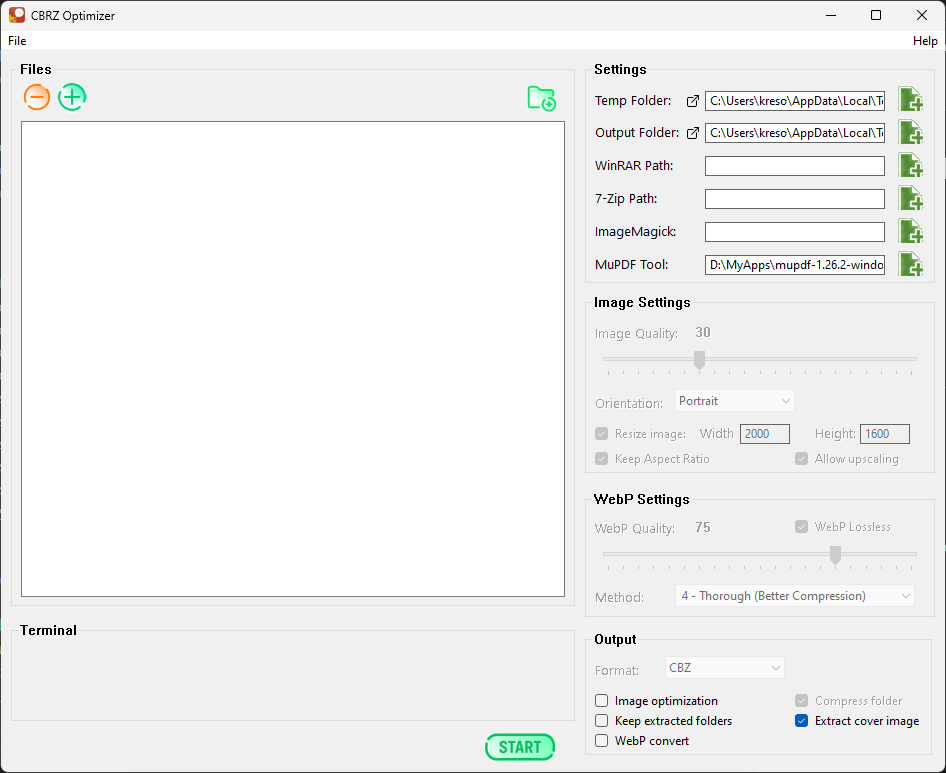
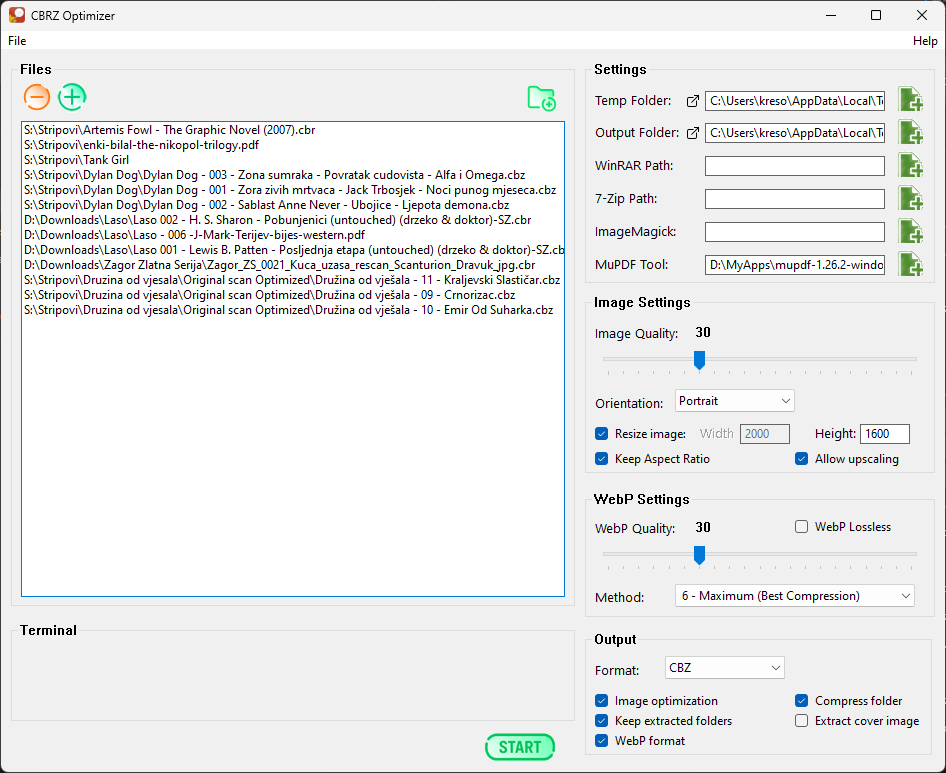
see changelog v1.2.0

diff --git a/src/aboutDialog.c b/src/aboutDialog.c
@@ -71,8 +71,7 @@ LRESULT CALLBACK AboutWndProc(HWND hWnd, UINT msg, WPARAM wParam, LPARAM lParam)
    {
    case WM_CREATE:
    {
-      hIcon = (HICON)LoadImageW( GetModuleHandleW(NULL), MAKEINTRESOURCEW(IDI_ICON1), IMAGE_ICON,
-         64, 64, LR_DEFAULTCOLOR | LR_SHARED);
+      hIcon = (HICON)LoadImageW( GetModuleHandleW(NULL), MAKEINTRESOURCEW(IDI_ICON1), IMAGE_ICON, 64, 64, LR_DEFAULTCOLOR | LR_SHARED);
 
       if (hIcon)
       {
@@ -103,8 +102,7 @@ LRESULT CALLBACK AboutWndProc(HWND hWnd, UINT msg, WPARAM wParam, LPARAM lParam)
       SendMessageW(hwndAppVersionStatic, WM_SETFONT, (WPARAM)hAboutFont, TRUE);
       SendMessageW(hwndIconsLink, WM_SETFONT, (WPARAM)hAboutFont, TRUE);
 
-      CreateWindowW(L"BUTTON", L"OK", WS_CHILD | WS_VISIBLE | BS_DEFPUSHBUTTON,
-                    110, 125, 80, 25, hWnd, (HMENU)IDC_ABOUT_OK,
+      CreateWindowW(L"BUTTON", L"OK", WS_CHILD | WS_VISIBLE | BS_DEFPUSHBUTTON, 110, 125, 80, 25, hWnd, (HMENU)IDC_ABOUT_OK,
                     (HINSTANCE)GetWindowLongPtr(hWnd, GWLP_HINSTANCE), NULL);
       break;
    }
@@ -122,6 +120,46 @@ LRESULT CALLBACK AboutWndProc(HWND hWnd, UINT msg, WPARAM wParam, LPARAM lParam)
          NMLINK *link = (NMLINK *)lParam;
          ShellExecuteW(NULL, L"open", link->item.szUrl, NULL, NULL, SW_SHOWNORMAL);
       }
+      break;
+   }
+
+   case WM_SETCURSOR:
+   {
+      POINT pt;
+      GetCursorPos(&pt);
+      ScreenToClient(hWnd, &pt);
+
+      HWND hwndChild = GetWindow(hWnd, GW_CHILD);
+      BOOL overLink = FALSE;
+
+      while (hwndChild)
+      {
+         wchar_t className[32];
+         GetClassNameW(hwndChild, className, 32);
+
+         if (wcscmp(className, WC_LINK) == 0)
+         {
+            RECT rc;
+            GetWindowRect(hwndChild, &rc);
+            ScreenToClient(hWnd, (LPPOINT)&rc.left);
+            ScreenToClient(hWnd, (LPPOINT)&rc.right);
+
+            if (PtInRect(&rc, pt))
+            {
+               overLink = TRUE;
+               break;
+            }
+         }
+
+         hwndChild = GetWindow(hwndChild, GW_HWNDNEXT);
+      }
+
+      if (!overLink)
+      {
+         SetCursor(LoadCursor(NULL, IDC_ARROW));
+         return TRUE;
+      }
+
       break;
    }
 

diff --git a/src/gui.c b/src/gui.c
@@ -32,7 +32,7 @@ LabelCheckboxPair controls[] = {
     {L"Keep Aspect Ratio", L"IMAGE_KEEP_ASPECT_RATIO", L"Image", 530, &hImageKeepAspectRatio, &hImageKeepAspectRatioLabel, &g_config.keepAspectRatio, TRUE},
     {L"Allow upscaling", L"IMAGE_ALLOW_UPSCALING", L"Image", 540, &hImageAllowUpscaling, &hImageAllowUpscalingLabel, &g_config.allowUpscaling, FALSE},
     {L"WebP Lossless", L"WEBP_LOSSLESS", L"WebP", 550, &hWebPLossless, &hWebPLosslessLabel, &g_config.WebPLossless, FALSE},
-    {L"WebP convert", L"OUTPUT_WEBP", L"Output", 560, &hWebPConvert, &hWebPConvertLabel, &g_config.convertToWebP, TRUE}
+    {L"WebP format", L"OUTPUT_WEBP", L"Output", 560, &hWebPConvert, &hWebPConvertLabel, &g_config.convertToWebP, TRUE}
    };
 
 const size_t controlCount = sizeof(controls) / sizeof(controls[0]);

diff --git a/README.md b/README.md
@@ -13,6 +13,7 @@
 ## ✨ Features
 
 - 📦 Extract `.cbz`, `.zip`, `.cbr`, `.rar` archives
+- Support for WebP image format
 - 📁 Folder support:
   - Convert entire folders of images into comic archives (`.cbz`, `.cbr`)
   - Optimize folders of images without archiving
@@ -48,7 +49,7 @@
    - [WinRAR](https://www.win-rar.com/) for `.cbr`, `.rar` support
    - [7-Zip CLI](https://www.7-zip.org/) for `.zip`, `.cbz` extraction and compression
    - [MuPDF CLI](https://mupdf.com/) for PDF creation from archives and PDF extraction
-   - [ImageMagick CLI](https://imagemagick.org/script/download.php) for advanced image optimization
+   - [ImageMagick CLI](https://imagemagick.org/script/download.php) for alternative image optimization
 
 ---
 
@@ -57,8 +58,8 @@
 - Windows 10 or newer
 - Optional: [WinRAR](https://www.win-rar.com/) for `.cbr`, `.rar` support
 - Optional: [7-Zip CLI](https://www.7-zip.org/) for `.zip`, `.cbz` support
-- Optional: [MuPDF CLI](https://mupdf.com/) for `.pdf` generation
-- Optional: [ImageMagick CLI](https://imagemagick.org/script/download.php) for advanced image optimization
+- Optional: [MuPDF CLI](https://mupdf.com/) for `.pdf` generation - use muttol.exe
+- Optional: [ImageMagick CLI](https://imagemagick.org/script/download.php) for alternative image optimization
 
 ---
 
